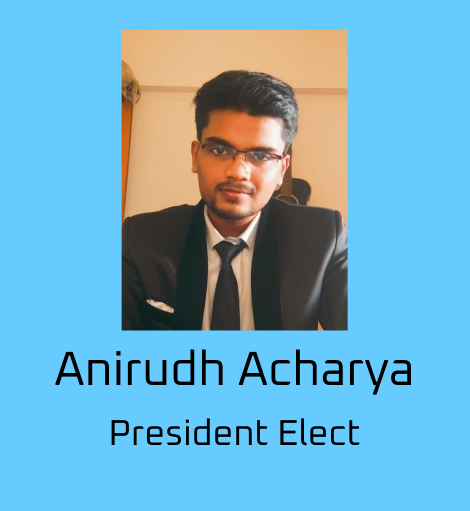
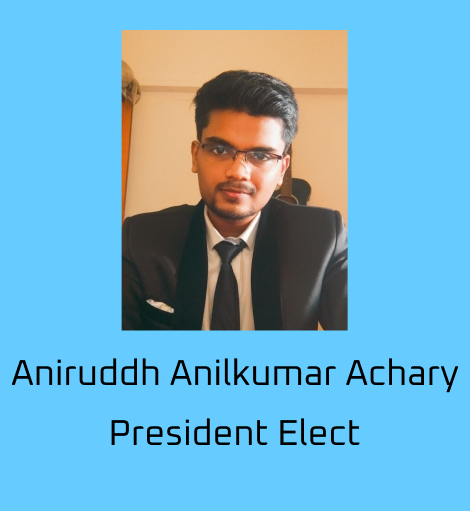
name and event change

Changed region(s): [[0.0298, 0.6751, 0.983, 0.7926]]

diff --git a/events.html b/events.html
@@ -116,7 +116,7 @@
 <section class="events">
     <div class="eventinfo">
         <h2>EVENTS</h2>
-        <p>They rushed out the door, grabbing anything and everything they could think of they might need. There was no time to double-check to make sure they weren't leaving something important behind. Everything was thrown into the car and they sped off. Thirty minutes later they were safe and that was when it dawned on them that they had forgotten the most important thing of all.
+        <p>We at ISHRAE PCE  organize and manage many events like k12 , seminar/webinar , industrial visit,talk show etc  which help students to to gain practical knowledge of how industries work. Such events hosted ISHRAE gives opportunity and helps members to develop their technical as well as soft skills.
         </p>
     </div>
     
